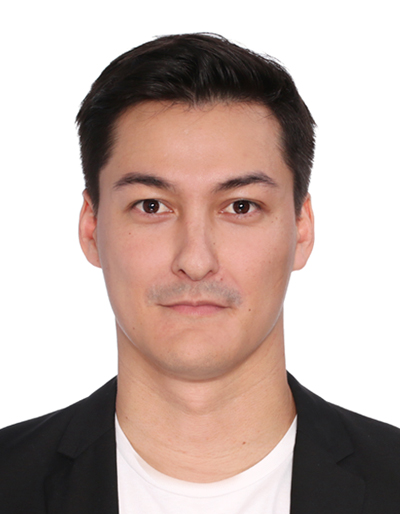
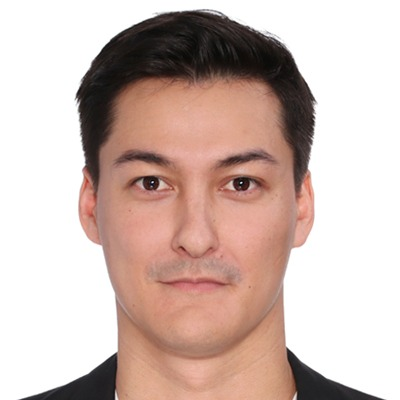
chore: new me pic + text align

diff --git a/src/views/HomeView.vue b/src/views/HomeView.vue
@@ -6,21 +6,17 @@
         <p>Welcome to my portfolio! I'm a passionate developer.<br/>
         Here you can find my projects, skills, and more about me.<br/>
         Feel free to explore and reach out if you have any questions!</p>
+        <ul>
+          <li>Get my resume</li>
+          <li>Hire me (link to either a form or mailto)</li>
+          <li>Checkout my github</li>
+          <li>Explore my linkedin</li>
+        </ul>
       </div>
       <figure>
         <img src="../assets/img/me.jpg" alt="Alex Greau" />
         <figcaption>This website's creator</figcaption>
       </figure>    
-    </section>
-    <section>
-      Small intro / Hero content, name title,
-      <p>Short Tagline (e.g., "Building sleek, high-performance UIs with Vue.js & TailwindCSS")</p> 
-      <ul>
-        <li>Get my resume</li>
-        <li>Hire me (link to either a form or mailto)</li>
-        <li>Checkout my github</li>
-        <li>Explore my linkedin</li>
-      </ul>
     </section>
     <section>
       Projects ? Cards with projects and ideas, no need codes yet, just show that you have ideas and executing them
@@ -61,6 +57,7 @@
     margin-bottom: 20px;
     figure {
       margin-top: 20px;
+      text-align: center;
       img {
         max-width: 300px;
         height: auto;
